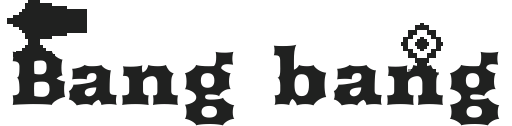
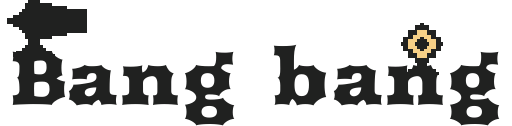
[design] update game flow and title graphic

Changed region(s): [[0.7812, 0.2381, 0.875, 0.4762], [0.8438, 0.5714, 0.875, 0.5952], [0.7812, 0.5476, 0.8125, 0.5714]]

diff --git a/Games/Bang Bang/README.md b/Games/Bang Bang/README.md
@@ -27,7 +27,4 @@ The `.png` images in the `res` folder are designed with GIMP, to have solid, bla
 MISSING
 
 - show congratulatory message similar to lunar lander
-- color target in title screen
-- increase delay to play state
 - docs
--
